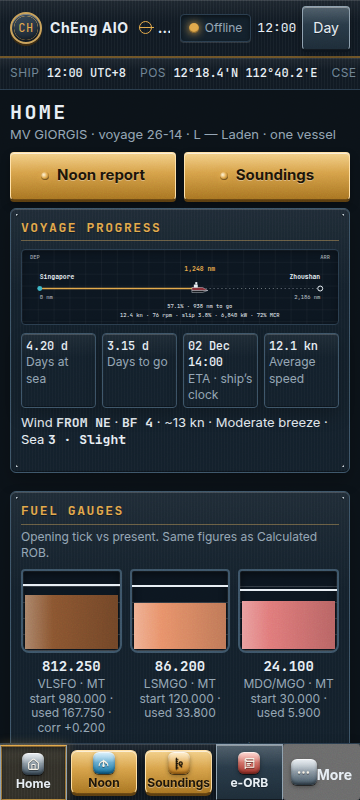
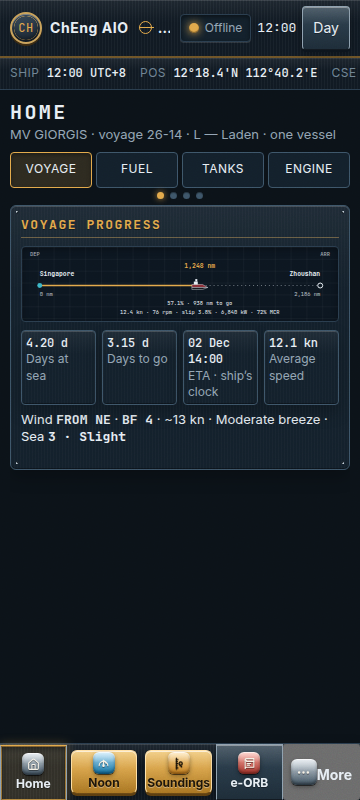
Make the phone home mockup four swipeable sections.
On a phone the dashboard is Voyage, Fuel, Tanks, and Engine, one viewport each, with a sticky tab strip and dots. Noon and Soundings stay on the bottom bar. Tablet and Windows keep the single scrolling board.

Changed region(s): [[0.0306, 0.1875, 0.9778, 0.9375], [0.9472, 0.875, 0.9778, 0.9062]]

diff --git a/docs/redesign-mockups/dashboard.html b/docs/redesign-mockups/dashboard.html
@@ -28,6 +28,24 @@
       </div>
     </header>
 
+    <div id="phoneDeck" class="phone-deck" hidden>
+      <div class="dash-tabs" role="tablist" aria-label="Dashboard sections">
+        <button type="button" data-goto="0" class="on">Voyage</button>
+        <button type="button" data-goto="1">Fuel</button>
+        <button type="button" data-goto="2">Tanks</button>
+        <button type="button" data-goto="3">Engine</button>
+      </div>
+      <div class="dash-dots" aria-hidden="true"><i class="on"></i><i></i><i></i><i></i></div>
+      <div class="dash-snap" id="dashSnap">
+        <section class="dash-pane" data-pane="voyage"></section>
+        <section class="dash-pane" data-pane="fuel"></section>
+        <section class="dash-pane" data-pane="tanks"></section>
+        <section class="dash-pane" data-pane="rest"></section>
+      </div>
+    </div>
+
+    <div id="homeLong">
+
     <div class="actions-2">
       <a class="btn primary" href="noon.html">Noon report</a>
       <a class="btn primary" href="soundings.html">Soundings</a>
@@ -517,6 +535,7 @@
       </details>
       <p class="hint">First-run ships with no vessel yet get one action, Set up this vessel, instead of this board. It is the empty state of Home, not a second page.</p>
     </section>
+    </div>
   </template>
   <script src="icons.js"></script>
   <script src="station.js"></script>
@@ -526,6 +545,103 @@
       if (hint) hint.hidden = !hint.hidden;
       this.classList.toggle('on');
     });
+
+    (function () {
+      var mq = window.matchMedia('(max-width: 599px), (orientation: landscape) and (max-height: 500px)');
+      var groups = {
+        voyage: ['passage'],
+        fuel: ['fuel-gauges', 'rob'],
+        tanks: ['tanks']
+      };
+      var moved = [];
+      var deck, long, snap;
+      function take(id, pane) {
+        var el = document.getElementById(id);
+        if (!el || !pane) return;
+        var mark = document.createComment('slot');
+        el.parentNode.insertBefore(mark, el);
+        moved.push({ el: el, mark: mark });
+        pane.appendChild(el);
+      }
+      function mark(idx) {
+        deck.querySelectorAll('[data-goto]').forEach(function (b, n) {
+          b.classList.toggle('on', n === idx);
+        });
+        deck.querySelectorAll('.dash-dots i').forEach(function (d, n) {
+          d.classList.toggle('on', n === idx);
+        });
+      }
+      function mount() {
+        document.body.classList.add('phone-dash');
+        deck.hidden = false;
+        moved = [];
+        Object.keys(groups).forEach(function (name) {
+          var pane = snap.querySelector('[data-pane="' + name + '"]');
+          groups[name].forEach(function (id) { take(id, pane); });
+        });
+        var rest = snap.querySelector('[data-pane="rest"]');
+        while (long.firstElementChild) {
+          var child = long.firstElementChild;
+          var slot = document.createComment('slot');
+          long.insertBefore(slot, child);
+          moved.push({ el: child, mark: slot });
+          rest.appendChild(child);
+        }
+        long.hidden = true;
+        var names = ['voyage', 'fuel', 'tanks', 'rest'];
+        var want = new URLSearchParams(location.search).get('pane') || 'voyage';
+        var idx = names.indexOf(want);
+        if (idx < 0) idx = 0;
+        mark(idx);
+        var jump = function () { snap.scrollLeft = idx * (snap.clientWidth || 1); mark(idx); };
+        jump();
+        requestAnimationFrame(jump);
+      }
+      function unmount() {
+        document.body.classList.remove('phone-dash');
+        deck.hidden = true;
+        long.hidden = false;
+        for (var i = moved.length - 1; i >= 0; i--) {
+          var m = moved[i];
+          if (m.mark && m.mark.parentNode) {
+            m.mark.parentNode.insertBefore(m.el, m.mark);
+            m.mark.remove();
+          }
+        }
+        moved = [];
+      }
+      function indexNow() {
+        var w = snap.clientWidth || 1;
+        return Math.max(0, Math.min(3, Math.round(snap.scrollLeft / w)));
+      }
+      function wire() {
+        deck.querySelectorAll('[data-goto]').forEach(function (b) {
+          b.addEventListener('click', function () {
+            var i = Number(b.getAttribute('data-goto'));
+            var pane = snap.children[i];
+            if (pane && pane.scrollIntoView) pane.scrollIntoView({ behavior: 'smooth', inline: 'start', block: 'nearest' });
+            mark(i);
+          });
+        });
+        snap.addEventListener('scroll', function () { mark(indexNow()); });
+      }
+      function apply() {
+        if (mq.matches) mount();
+        else if (document.body.classList.contains('phone-dash')) unmount();
+      }
+      function start() {
+        deck = document.getElementById('phoneDeck');
+        long = document.getElementById('homeLong');
+        snap = document.getElementById('dashSnap');
+        if (!deck || !long || !snap || deck.dataset.wired === '1') return;
+        deck.dataset.wired = '1';
+        wire();
+        if (mq.addEventListener) mq.addEventListener('change', apply);
+        apply();
+      }
+      if (document.readyState === 'loading') document.addEventListener('DOMContentLoaded', start);
+      else start();
+    })();
   </script>
 </body>
 </html>

diff --git a/docs/redesign-mockups/station.css b/docs/redesign-mockups/station.css
@@ -1156,6 +1156,79 @@ html[data-theme="day"] .ico {
   .hero { grid-template-columns: 1.45fr 0.85fr; align-items: start; }
   .vtank-glass { height: 132px; }
 }
+
+/* Phone home: four swipeable screens. Desktop and tablet keep the long board. */
+.phone-deck { display: none; }
+body.phone-dash .stage {
+  overflow: hidden;
+  display: flex;
+  flex-direction: column;
+}
+body.phone-dash #homeLong { display: none; }
+body.phone-dash .phone-deck {
+  display: flex;
+  flex-direction: column;
+  flex: 1;
+  min-height: 0;
+}
+.dash-tabs {
+  display: flex;
+  gap: 4px;
+  flex: none;
+}
+.dash-tabs button {
+  flex: 1;
+  min-height: 36px;
+  border-radius: 4px;
+  border: 1px solid var(--line-strong);
+  background: var(--panel);
+  font-size: 12px;
+  letter-spacing: 0.04em;
+  text-transform: uppercase;
+}
+.dash-tabs button.on {
+  background: var(--amber-dim);
+  border-color: var(--amber);
+  box-shadow: inset 0 2px 4px rgba(0, 0, 0, 0.35);
+}
+.dash-dots {
+  display: flex;
+  justify-content: center;
+  gap: 6px;
+  flex: none;
+  padding: 4px 0 6px;
+}
+.dash-dots i {
+  width: 7px;
+  height: 7px;
+  border-radius: 50%;
+  background: var(--line-strong);
+  box-shadow: inset 0 1px 1px rgba(0, 0, 0, 0.4);
+}
+.dash-dots i.on {
+  background: var(--amber);
+  box-shadow: 0 0 6px rgba(226, 168, 74, 0.8);
+}
+.dash-snap {
+  flex: 1;
+  min-height: 0;
+  display: flex;
+  overflow-x: auto;
+  overflow-y: hidden;
+  scroll-snap-type: x mandatory;
+  scrollbar-width: none;
+}
+.dash-snap::-webkit-scrollbar { display: none; }
+.dash-pane {
+  flex: 0 0 100%;
+  width: 100%;
+  height: 100%;
+  min-width: 0;
+  overflow-x: hidden;
+  overflow-y: auto;
+  scroll-snap-align: start;
+  scroll-snap-stop: always;
+}
 .bearing {
   display: flex;
   align-items: center;

diff --git a/docs/redesign-mockups/README.md b/docs/redesign-mockups/README.md
@@ -121,6 +121,15 @@ Pages other than Home, Noon, Soundings, ROB, Calibration and Vessel Setup open a
 
 Noon report, on a phone in portrait, is four steps: When, Meters, Oil & water, Review. Each step is one screen, with a sticky Next or Save. Calculated boxes stay dashed. The previous meter reading sits under the input. On a tablet in landscape and on Windows the same sections are all visible at once, which is how Log Entry works today. The Windows “Enter Flowmeters…” popup is the Meters step on a phone.
 
+The phone home board is not one long page. From 320px through about 430px wide, and in phone landscape, it is four screens you swipe sideways. CSS scroll-snap does the swipe. A tab strip under the title — Voyage, Fuel, Tanks, Engine — plus four dots, jumps to a screen when tapped. Each screen is one viewport tall. If a screen has more than fits, it scrolls inside itself, not the whole app. Noon report and Soundings stay on the bottom bar the whole time. Tablet and Windows keep the single scrolling board, with the passage chart and fuel gauges side by side under those two keys.
+
+The four phone screens are:
+
+1. Voyage — the passage chart, speed, RPM, slip, load, days at sea, days to go, and ETA.
+2. Fuel — the vertical fuel gauges, then lube and fresh-water ROB.
+3. Tanks — the sounding summary, the tank drawing, and the table.
+4. Engine — alerts, the latest noon, ship and sync, consumption, performance, SFOC, running hours, CII, BDN retention, maintenance, and the departure/arrival book.
+
 ROB is one card per grade (opening, received, consumed, present), with a sticky total. The survey-minus-log comparison is under them. There is no sideways table on a 320px phone.
 
 Soundings, on a phone, opens on the tanks. The draft, trim, heel and temperatures are one summary line; tap it for the full header. Each tank is a card: the centimetres and the temperature are the large inputs, the weight in air is the large figure, and VCF / GSV / WCF sit in the small line. A total for VLSFO, distillate and the log difference sticks to the top. From tablet landscape upward (about 1100px) the cards give way to the full monitoring grid, the same columns as the fuel-oil report. That grid is the one place a sideways scroll is still honest, and the tank name stays pinned.
@@ -138,11 +147,11 @@ Today there are three home screens. ChEng AIO Home, Voyage Chief’s Summary, an
 | Watch strip: ship’s clock, next ports, ROB by grade, sludge %, e-ORB weekly line | The strip under the top bar, on every screen |
 | First-run “Set up this vessel” when no ship exists | Empty state of this same board. Not drawn on the working sample. The note at the bottom of the tank section says so |
 | Voyage progress: Voyage Chief, Log Entry, Consumption Plan | Passage band, button row |
-| Voyage progress picture: departure, 0 nm, arrival, total nm, ship on the track, nm sailed, percent complete, nm to go, speed, RPM, slip, kW, % MCR, average speed | The chart directly under the Noon and Soundings keys. Visible on the 1366×768 desktop, the 360×800 phone, and tablet landscape |
+| Voyage progress picture: departure, 0 nm, arrival, total nm, ship on the track, nm sailed, percent complete, nm to go, speed, RPM, slip, kW, % MCR, average speed | The chart directly under the Noon and Soundings keys on Windows and tablet. On a phone it is the first swipe screen, Voyage |
 | Days at sea, days to go, ETA | Strip under the voyage chart, and again in the voyage-figures list |
 | Wind from, Beaufort, knots, Beaufort name, sea state | Line under the chart. Beaufort sample buttons are in Voyage figures |
 | License warning if Voyage or Tanks is not on the key | Not on this sample (the sample is licensed). The sentence stays available where today’s warning sits, under the passage or the tank band |
-| Calculated ROB: ROB button, per-fuel gauge with present, opening tick, used, survey correction, fuel colour | Vertical fuel gauges in the top band, beside the chart on a wide screen and directly under it on a phone. The same three grades are repeated as numbers in Calculated ROB, with the lube and fresh-water gauges |
+| Calculated ROB: ROB button, per-fuel gauge with present, opening tick, used, survey correction, fuel colour | Vertical fuel gauges beside the chart on Windows and tablet. On a phone they are the Fuel swipe screen, with lube and fresh water in the same screen |
 | Vessel tank overview: Tank Chief, Monitoring, Bunkering Plan, Rearrange, Reset layout | Tank band, button row. Rearrange reveals the same hint |
 | HFO/VLSFO volume, logged count, % full | HFO / VLSFO card |
 | HFO/VLSFO weight in air | The weight line on that card, and the separate weight card |
